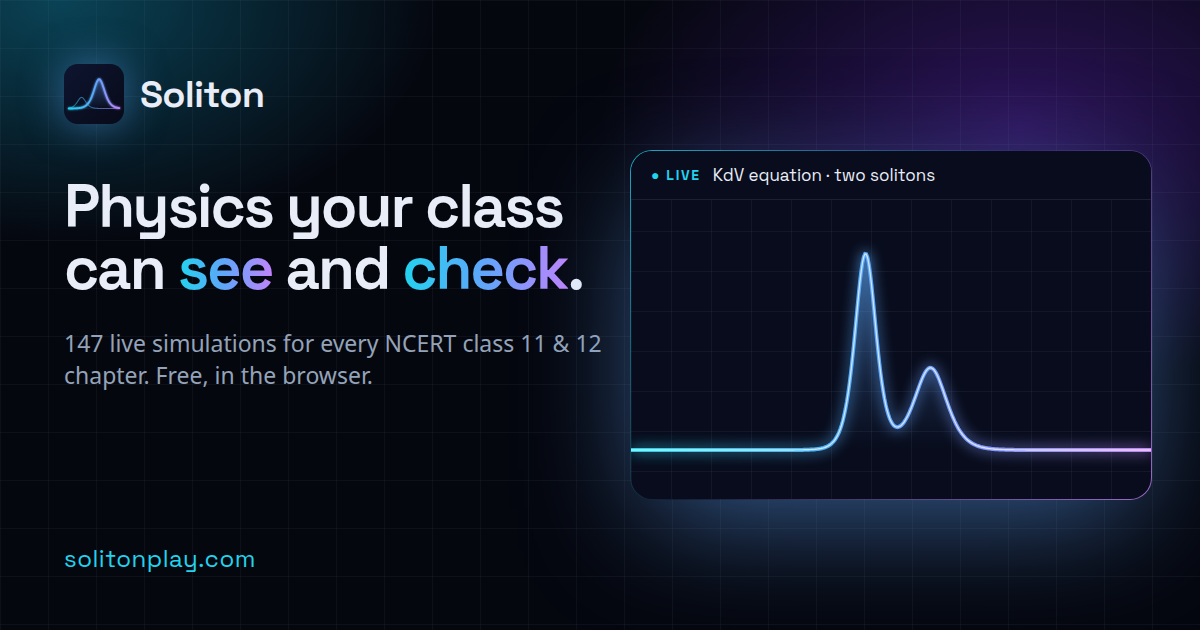
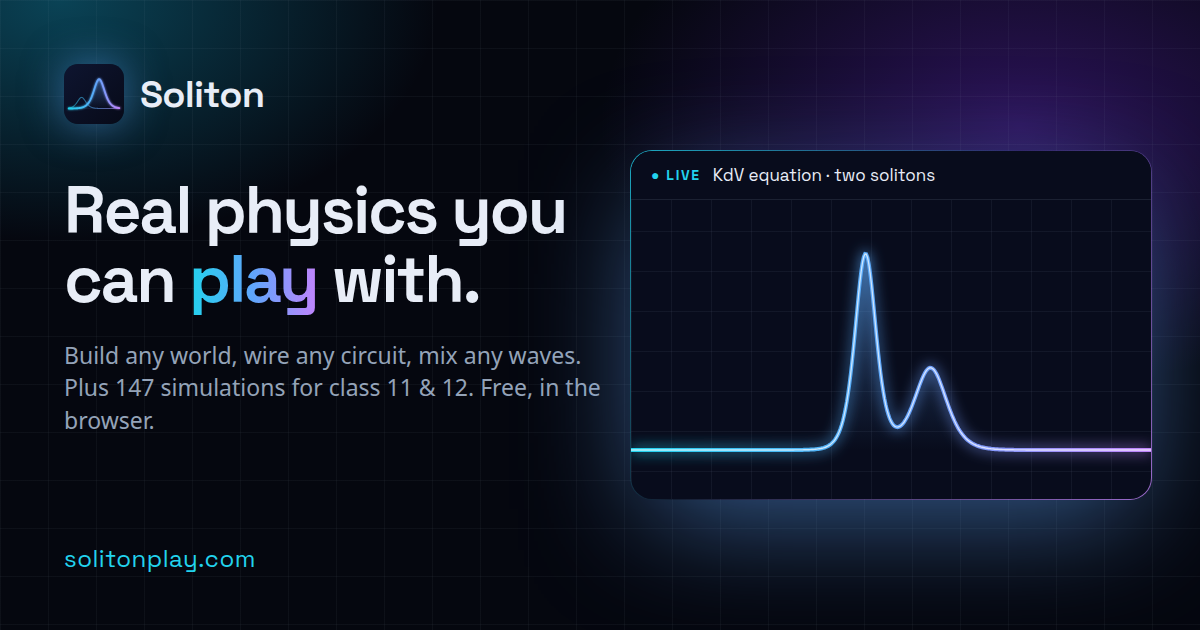
Landing: lead with play and building, not only the syllabus
The hero speaks to anyone curious: "Real physics you can play with", with Start building and Explore 147
simulations. A Build anything section shows the mechanics sandbox (with a picture of it), the circuit
builder, the wave lab and maths. Title, description, share image, structured data and FAQ follow.

Sandbox: the info card moves beside the tool rail and tool hints sit above the dock, so the three no longer
overlap on shorter screens.

Changed region(s): [[0.0308, 0.2714, 0.4933, 0.6333], [0.0617, 0.6635, 0.1233, 0.6937]]

diff --git a/index.html b/index.html
@@ -3,8 +3,8 @@
   <head>
     <meta charset="utf-8" />
     <meta name="viewport" content="width=device-width, initial-scale=1, viewport-fit=cover" />
-    <title>Soliton: Free Physics Simulations for Class 11 &amp; 12 (NCERT, JEE, NEET)</title>
-    <meta name="description" content="147 free, live physics simulations covering every NCERT class 11 and 12 chapter: motion, forces, energy, waves, thermodynamics, circuits, magnetism, optics and modern physics. Real forces and graphs, checked against the textbook answer. Made for the classroom projector." />
+    <title>Soliton: Free Physics Sandbox &amp; Simulations, from Class 11 to Curiosity</title>
+    <meta name="description" content="A free physics playground in your browser. Build any world from balls, ropes, springs and planets, wire your own circuits, mix waves, and watch a real physics engine compute every force. Plus 147 ready simulations covering every NCERT class 11 and 12 chapter." />
     <link rel="canonical" href="https://solitonplay.com/" />
     <meta name="robots" content="index, follow, max-image-preview:large" />
     <meta name="theme-color" content="#05070f" />
@@ -14,18 +14,18 @@
     <meta property="og:type" content="website" />
     <meta property="og:site_name" content="Soliton" />
     <meta property="og:url" content="https://solitonplay.com/" />
-    <meta property="og:title" content="Soliton: free physics simulations for class 11 &amp; 12" />
-    <meta property="og:description" content="Every NCERT physics chapter as a live simulation, checked against the textbook answer. Free, in the browser, made for the projector." />
+    <meta property="og:title" content="Soliton: real physics you can play with" />
+    <meta property="og:description" content="Build any world, wire any circuit, mix any waves, and watch a real physics engine at work. Free, in the browser, with every NCERT class 11 and 12 chapter ready to teach." />
     <meta property="og:image" content="https://solitonplay.com/og.png" />
     <meta property="og:image:width" content="1200" />
     <meta property="og:image:height" content="630" />
-    <meta property="og:image:alt" content="Soliton: physics your class can see and check. Two solitons on a live scope." />
+    <meta property="og:image:alt" content="Soliton: real physics you can play with. Two solitons on a live scope." />
     <meta property="og:locale" content="en_IN" />
     <meta name="twitter:card" content="summary_large_image" />
-    <meta name="twitter:title" content="Soliton: free physics simulations for class 11 &amp; 12" />
-    <meta name="twitter:description" content="Every NCERT physics chapter as a live simulation, checked against the textbook answer." />
+    <meta name="twitter:title" content="Soliton: real physics you can play with" />
+    <meta name="twitter:description" content="Build any world, wire any circuit, mix any waves, and watch a real physics engine at work. Free, in the browser." />
     <meta name="twitter:image" content="https://solitonplay.com/og.png" />
-    <script type="application/ld+json">{"@context": "https://schema.org", "@graph": [{"@type": "WebSite", "@id": "https://solitonplay.com/#website", "url": "https://solitonplay.com/", "name": "Soliton", "description": "Free live physics simulations for every NCERT class 11 and 12 chapter.", "inLanguage": "en-IN", "publisher": {"@id": "https://solitonplay.com/#org"}}, {"@type": "Organization", "@id": "https://solitonplay.com/#org", "name": "Soliton Physics", "url": "https://solitonplay.com/", "logo": "https://solitonplay.com/icon-512.png", "email": "developer.zang.000@gmail.com", "sameAs": ["https://github.com/soliton-physics", "https://www.npmjs.com/package/@soliton-physics/engine", "https://pypi.org/project/soliton-physics/"]}, {"@type": ["WebApplication", "LearningResource"], "name": "Soliton Physics Playground", "url": "https://solitonplay.com/play", "applicationCategory": "EducationalApplication", "operatingSystem": "Any (runs in the browser)", "offers": {"@type": "Offer", "price": "0", "priceCurrency": "INR"}, "isAccessibleForFree": true, "educationalLevel": ["Class 11", "Class 12"], "learningResourceType": "Simulation", "educationalAlignment": {"@type": "AlignmentObject", "alignmentType": "educationalSubject", "targetName": "NCERT Physics"}, "audience": {"@type": "EducationalAudience", "educationalRole": ["teacher", "student"]}, "teaches": ["Laws of motion", "Work, energy and power", "Rotational motion", "Gravitation", "Properties of matter", "Thermodynamics", "Kinetic theory", "Oscillations and waves", "Electrostatics", "Current electricity", "Magnetism", "Electromagnetic induction", "Alternating current", "Ray optics", "Wave optics", "Modern physics", "Semiconductor electronics"], "image": "https://solitonplay.com/og.png", "publisher": {"@id": "https://solitonplay.com/#org"}}, {"@type": "FAQPage", "mainEntity": [{"@type": "Question", "name": "Is Soliton free?", "acceptedAnswer": {"@type": "Answer", "text": "Yes. The playground and every simulation are free to use, for teachers, students and schools. Nothing to sign up for."}}, {"@type": "Question", "name": "Which syllabus does it cover?", "acceptedAnswer": {"@type": "Answer", "text": "Every chapter of NCERT physics for class 11 and class 12, from motion in a straight line to semiconductor electronics. It serves CBSE and state boards, and the same physics JEE and NEET ask about."}}, {"@type": "Question", "name": "Do students need to install anything?", "acceptedAnswer": {"@type": "Answer", "text": "No. It runs in any modern browser, on a laptop, a phone or a smartboard. Share a link and it opens exactly the scene you showed."}}, {"@type": "Question", "name": "Can I use it on a projector in class?", "acceptedAnswer": {"@type": "Answer", "text": "Yes. Press T for projector mode: text, arrows and lines grow bigger and bolder so the back row can read them."}}, {"@type": "Question", "name": "How is it different from an animation or a video?", "acceptedAnswer": {"@type": "Answer", "text": "Nothing is pre-recorded. A physics engine computes every force, path and graph as you watch, and the result is set beside the textbook's formula, so students can see the formula come true and change the numbers themselves."}}, {"@type": "Question", "name": "Can I put the simulations in my own website or app?", "acceptedAnswer": {"@type": "Answer", "text": "Yes. Any simulation can be embedded, and the engine itself is on npm as @soliton-physics/engine and on PyPI as soliton-physics, free to use including commercially."}}]}]}</script>
+    <script type="application/ld+json">{"@context": "https://schema.org", "@graph": [{"@type": "WebSite", "@id": "https://solitonplay.com/#website", "url": "https://solitonplay.com/", "name": "Soliton", "description": "A free physics playground: build your own worlds and circuits, and explore live simulations of every NCERT class 11 and 12 chapter.", "inLanguage": "en-IN", "publisher": {"@id": "https://solitonplay.com/#org"}}, {"@type": "Organization", "@id": "https://solitonplay.com/#org", "name": "Soliton Physics", "url": "https://solitonplay.com/", "logo": "https://solitonplay.com/icon-512.png", "email": "developer.zang.000@gmail.com", "sameAs": ["https://github.com/soliton-physics", "https://www.npmjs.com/package/@soliton-physics/engine", "https://pypi.org/project/soliton-physics/"]}, {"@type": ["WebApplication", "LearningResource"], "name": "Soliton Physics Playground", "url": "https://solitonplay.com/play", "applicationCategory": "EducationalApplication", "operatingSystem": "Any (runs in the browser)", "offers": {"@type": "Offer", "price": "0", "priceCurrency": "INR"}, "isAccessibleForFree": true, "educationalLevel": ["Class 11", "Class 12"], "learningResourceType": "Simulation", "educationalAlignment": {"@type": "AlignmentObject", "alignmentType": "educationalSubject", "targetName": "NCERT Physics"}, "audience": {"@type": "Audience", "audienceType": "Students, teachers, physics hobbyists and anyone curious"}, "teaches": ["Laws of motion", "Work, energy and power", "Rotational motion", "Gravitation", "Properties of matter", "Thermodynamics", "Kinetic theory", "Oscillations and waves", "Electrostatics", "Current electricity", "Magnetism", "Electromagnetic induction", "Alternating current", "Ray optics", "Wave optics", "Modern physics", "Semiconductor electronics"], "image": "https://solitonplay.com/og.png", "publisher": {"@id": "https://solitonplay.com/#org"}, "description": "A real physics engine in the browser: a sandbox to build worlds from balls, boxes, ropes, rods, springs and planets; a circuit builder; a wave lab; and 147 ready simulations across mechanics, waves, thermodynamics, electricity, magnetism, optics and modern physics."}, {"@type": "FAQPage", "mainEntity": [{"@type": "Question", "name": "Is Soliton free?", "acceptedAnswer": {"@type": "Answer", "text": "Yes. The playground, the sandbox and every simulation are free to use, for anyone: students, teachers, schools and the simply curious. Nothing to sign up for."}}, {"@type": "Question", "name": "Can I build my own simulations?", "acceptedAnswer": {"@type": "Answer", "text": "Yes. The sandbox lets you draw balls, boxes, any polygon, platforms, inclines and walls, join them with ropes, rods, springs and pins, or start from a sun and planets and throw in a comet. There is a circuit builder for batteries, resistors, capacitors, inductors and diodes, a wave lab for mixing waves, and a maths mode where you type any function. Everything you build can be shared as a link."}}, {"@type": "Question", "name": "Which syllabus does it cover?", "acceptedAnswer": {"@type": "Answer", "text": "Every chapter of NCERT physics for class 11 and class 12, from motion in a straight line to semiconductor electronics. It serves CBSE and state boards, and the same physics JEE and NEET ask about."}}, {"@type": "Question", "name": "Do students need to install anything?", "acceptedAnswer": {"@type": "Answer", "text": "No. It runs in any modern browser, on a laptop, a phone or a smartboard. Share a link and it opens exactly the scene you showed."}}, {"@type": "Question", "name": "Can I use it on a projector in class?", "acceptedAnswer": {"@type": "Answer", "text": "Yes. Press T for projector mode: text, arrows and lines grow bigger and bolder so the back row can read them."}}, {"@type": "Question", "name": "How is it different from an animation or a video?", "acceptedAnswer": {"@type": "Answer", "text": "Nothing is pre-recorded. A physics engine computes every force, path and graph as you watch, and the result is set beside the textbook's formula, so students can see the formula come true and change the numbers themselves."}}, {"@type": "Question", "name": "Can I put the simulations in my own website or app?", "acceptedAnswer": {"@type": "Answer", "text": "Yes. Any simulation can be embedded, and the engine itself is on npm as @soliton-physics/engine and on PyPI as soliton-physics, free to use including commercially."}}]}]}</script>
     <script>
       // Links made before the playground moved to /play carry its settings on the home address: send them on.
       if (location.pathname === '/' && (location.search || location.hash)) location.replace('/play' + location.search + location.hash);
@@ -38,7 +38,8 @@
       <div class="wrap nav-row">
         <a class="brand" href="/"><img src="/favicon.svg" alt="" width="32" height="32" /><span>Soliton</span></a>
         <nav class="nav-links">
-          <a href="#features">Why Soliton</a>
+          <a href="#build">Build</a>
+          <a href="#teachers-why">For teachers</a>
           <a href="#syllabus">Syllabus</a>
           <a href="#developers">Developers</a>
           <a href="https://docs.solitonplay.com">Docs</a>
@@ -50,15 +51,16 @@
     <section class="hero">
       <div class="wrap hero-grid">
         <div class="hero-text">
-          <p class="pill"><span class="dot"></span>Free physics simulations · NCERT class 11 &amp; 12</p>
-          <h1>Physics your class can <span class="gradient">see</span> and <span class="gradient">check</span>.</h1>
+          <p class="pill"><span class="dot"></span>A free physics playground, in your browser</p>
+          <h1>Real physics you can <span class="gradient">play</span> with.</h1>
           <p class="lead">
-            Every chapter of class 11 and 12 physics as a live simulation, for boards, JEE and NEET. Forces, graphs
-            and energy are computed as you watch, and set right beside the textbook's answer.
+            Build a machine from ropes and pulleys, launch a comet round a sun, wire a circuit, mix waves. A real
+            physics engine works out every force, path and joule as you watch. For the curious, for students, and for
+            every class 11 and 12 classroom.
           </p>
           <div class="actions">
-            <a class="button" href="/play">Open the playground <span class="arrow">→</span></a>
-            <a class="button ghost" href="#teachers">Use it in your class</a>
+            <a class="button" href="/play?mode=mechanics&amp;sandbox">Start building <span class="arrow">→</span></a>
+            <a class="button ghost" href="/play">Explore 147 simulations</a>
           </div>
         </div>
 
@@ -80,7 +82,7 @@
 
       <div class="wrap stats">
         <div><b>147</b><span>live simulations</span></div>
-        <div><b>27</b><span>NCERT chapters</span></div>
+        <div><b>9</b><span>areas of physics</span></div>
         <div><b data-count="downloads">4,192</b><span>package downloads</span></div>
         <div><b>100%</b><span>free to use</span></div>
       </div>
@@ -108,11 +110,50 @@
       </div>
     </section>
 
-    <section class="features" id="features">
+    <section class="build" id="build">
       <div class="wrap">
         <div class="section-head">
-          <p class="eyebrow">Why teachers use it</p>
+          <p class="eyebrow">Build anything</p>
+          <h2>Not just simulations. A world to build in.</h2>
+          <p class="section-lead">Draw it, join it, let it go. If physics allows it, you can build it, and the engine will show you exactly what happens and why.</p>
+        </div>
+        <div class="builders">
+          <a class="builder big" href="/play?mode=mechanics&amp;sandbox">
+            <span class="icon"><svg viewBox="0 0 24 24"><circle cx="7" cy="7" r="3" /><rect x="13" y="13" width="7" height="7" rx="1" /><path d="M9.5 9.5 13 13M3 21h18" /></svg></span>
+            <h3>Mechanics sandbox</h3>
+            <p>Balls, boxes and shapes of any outline. Platforms, inclines and walls. Join them with ropes over pulleys, rods, springs and pins, give them friction and bounce, then press play. Or start from a sun and planets, change G and throw a comet in.</p>
+            <img class="builder-shot" src="/sandbox.webp" width="1200" height="760" loading="lazy" alt="The mechanics sandbox: a block on a table pulled by a hanging mass over a pulley, with its free-body diagram and the tool rail." />
+            <ul class="tags"><li>ropes &amp; pulleys</li><li>springs</li><li>collisions</li><li>orbits</li><li>free-body diagrams</li><li>energy ledger</li></ul>
+            <span class="go">Open the sandbox →</span>
+          </a>
+          <a class="builder" href="/play?mode=circuits&amp;sandbox">
+            <span class="icon"><svg viewBox="0 0 24 24"><path d="M3 12h4l2-4 3 8 2-4h7" /><circle cx="3" cy="12" r="1" /><circle cx="21" cy="12" r="1" /></svg></span>
+            <h3>Circuit builder</h3>
+            <p>Batteries, resistors, capacitors, inductors, diodes and AC sources. Wire them any way you like and watch the current flow, solved from Kirchhoff's laws.</p>
+            <span class="go">Wire a circuit →</span>
+          </a>
+          <a class="builder" href="/play?mode=waves&amp;preset=wave-lab">
+            <span class="icon"><svg viewBox="0 0 24 24"><path d="M2 12c2-5 4-5 6 0s4 5 6 0 4-5 6 0" /><path d="M2 12c3-3 6-3 10 0s7 3 10 0" opacity=".5" /></svg></span>
+            <h3>Wave lab</h3>
+            <p>Add sine waves and pulses of your own, send them either way, and watch them add up into beats, standing waves and more.</p>
+            <span class="go">Mix waves →</span>
+          </a>
+          <a class="builder" href="/play?mode=maths">
+            <span class="icon"><svg viewBox="0 0 24 24"><path d="M4 20V4M4 20h16" /><path d="M6 16c3-9 6-9 8-3s4 3 6-5" /></svg></span>
+            <h3>Maths</h3>
+            <p>Type any function. See its graph, its derivative, the area under it and its integral, worked out step by step.</p>
+            <span class="go">Plot a function →</span>
+          </a>
+        </div>
+      </div>
+    </section>
+
+    <section class="features" id="teachers-why">
+      <div class="wrap">
+        <div class="section-head">
+          <p class="eyebrow">In the classroom</p>
           <h2>Made for the way physics is taught</h2>
+          <p class="section-lead">Every chapter of NCERT class 11 and 12, for boards, JEE and NEET, with the textbook's answer set beside the engine's.</p>
         </div>
         <div class="cards">
           <article class="card">
@@ -222,12 +263,16 @@
       <div class="wrap">
         <div class="section-head">
           <p class="eyebrow">Questions</p>
-          <h2>Asked by teachers</h2>
+          <h2>Questions, answered</h2>
         </div>
         <div class="faq-list">
           <details>
             <summary>Is Soliton free?</summary>
-            <p>Yes. The playground and every simulation are free to use, for teachers, students and schools. Nothing to sign up for.</p>
+            <p>Yes. The playground, the sandbox and every simulation are free to use, for anyone: students, teachers, schools and the simply curious. Nothing to sign up for.</p>
+          </details>
+          <details>
+            <summary>Can I build my own simulations?</summary>
+            <p>Yes. The sandbox lets you draw balls, boxes, any polygon, platforms, inclines and walls, join them with ropes, rods, springs and pins, or start from a sun and planets and throw in a comet. There is a circuit builder for batteries, resistors, capacitors, inductors and diodes, a wave lab for mixing waves, and a maths mode where you type any function. Everything you build can be shared as a link.</p>
           </details>
           <details>
             <summary>Which syllabus does it cover?</summary>

diff --git a/src/landing/landing.css b/src/landing/landing.css
@@ -1050,3 +1050,127 @@ kbd {
   padding: 0 1.4rem 1.3rem;
   color: var(--muted);
 }
+
+/* Build anything */
+.builders {
+  display: grid;
+  grid-template-columns: 1.25fr 1fr;
+  grid-auto-rows: auto;
+  gap: 1.2rem;
+}
+
+.builder {
+  position: relative;
+  display: flex;
+  flex-direction: column;
+  padding: 1.7rem;
+  border-radius: 20px;
+  background: var(--panel);
+  border: 1px solid var(--line);
+  text-decoration: none;
+  overflow: hidden;
+  transition: transform 0.25s ease, border-color 0.25s ease, box-shadow 0.25s ease;
+}
+
+.builder::before {
+  content: '';
+  position: absolute;
+  inset: 0;
+  background: radial-gradient(420px circle at var(--x, 80%) var(--y, 0%), rgba(96, 165, 250, 0.14), transparent 50%);
+  opacity: 0;
+  transition: opacity 0.3s ease;
+  pointer-events: none;
+}
+
+.builder:hover {
+  transform: translateY(-4px);
+  border-color: rgba(96, 165, 250, 0.5);
+  box-shadow: 0 30px 80px -40px rgba(96, 165, 250, 0.6);
+}
+
+.builder:hover::before {
+  opacity: 1;
+}
+
+.builder.big {
+  grid-row: span 3;
+  padding: 2.4rem;
+  background:
+    radial-gradient(70% 60% at 100% 0%, rgba(192, 132, 252, 0.16), transparent 70%),
+    radial-gradient(60% 60% at 0% 100%, rgba(34, 211, 238, 0.14), transparent 70%),
+    var(--panel);
+  border-color: var(--line-strong);
+}
+
+.builder h3 {
+  font-size: 1.3rem;
+  margin-bottom: 0.5rem;
+}
+
+.builder.big h3 {
+  font-size: clamp(1.7rem, 2.6vw, 2.2rem);
+  margin: 0.4rem 0 0.9rem;
+}
+
+.builder p {
+  margin: 0;
+  color: var(--muted);
+}
+
+.builder.big p {
+  font-size: 1.08rem;
+}
+
+.builder .icon {
+  margin-bottom: 1.1rem;
+}
+
+.tags {
+  display: flex;
+  flex-wrap: wrap;
+  gap: 0.5rem;
+  margin: 1.6rem 0 0;
+  padding: 0;
+  list-style: none;
+}
+
+.tags li {
+  padding: 0.25rem 0.75rem;
+  border-radius: 999px;
+  font-size: 0.85rem;
+  color: #e9d5ff;
+  background: rgba(192, 132, 252, 0.1);
+  box-shadow: 0 0 0 1px rgba(192, 132, 252, 0.3) inset;
+}
+
+.go {
+  margin-top: auto;
+  padding-top: 1.3rem;
+  font-family: var(--display);
+  font-weight: 600;
+  color: var(--cyan);
+}
+
+.builder:hover .go {
+  text-decoration: underline;
+}
+
+@media (max-width: 860px) {
+  .builders {
+    grid-template-columns: 1fr;
+  }
+
+  .builder.big {
+    grid-row: auto;
+  }
+}
+
+.builder-shot {
+  display: block;
+  width: 100%;
+  height: auto;
+  margin-top: 1.6rem;
+  border-radius: 14px;
+  border: 1px solid var(--line-strong);
+  box-shadow: 0 24px 60px -30px rgba(0, 0, 0, 0.9);
+}

diff --git a/src/landing/landing.ts b/src/landing/landing.ts
@@ -141,7 +141,7 @@ const canvas = document.querySelector<HTMLCanvasElement>('.scope-wave');
 if (canvas) scope(canvas);
 
 // The feature cards light up where the pointer is.
-for (const card of document.querySelectorAll<HTMLElement>('.card')) {
+for (const card of document.querySelectorAll<HTMLElement>('.card, .builder')) {
   card.addEventListener('pointermove', (e) => {
     const box = card.getBoundingClientRect();
     card.style.setProperty('--x', `${e.clientX - box.left}px`);
@@ -150,7 +150,7 @@ for (const card of document.querySelectorAll<HTMLElement>('.card')) {
 }
 
 // Sections rise into view as they are reached.
-const rising = document.querySelectorAll<HTMLElement>('.section-head, .screen, .card, .class, .package, .faq details, .teachers-box, .stats');
+const rising = document.querySelectorAll<HTMLElement>('.section-head, .screen, .card, .builder, .class, .package, .faq details, .teachers-box, .stats');
 const watcher = new IntersectionObserver(
   (entries) => {
     for (const entry of entries) {

diff --git a/src/styles/app.css b/src/styles/app.css
@@ -1482,6 +1482,30 @@ body.embed .banner {
   left: 8.286rem;
 }
 
+/* In the mechanics sandbox: the info card clear of the tool rail, and the tool hints above the playback dock. */
+.info.beside-rail {
+  left: 4.857rem;
+  width: min(22.857rem, calc(100% - 5.714rem));
+}
+
+.hint.hint-low {
+  top: auto;
+  bottom: 9.4rem;
+  left: 4.857rem;
+  right: 23rem;
+  width: fit-content;
+  margin-inline: auto;
+  transform: none;
+  white-space: normal;
+  text-align: center;
+}
+
+@media (max-width: 900px) {
+  .hint.hint-low {
+    right: 0.857rem;
+  }
+}
+
 /* A rail with more tools than one column has room for. */
 .rail.two {
   display: grid;

diff --git a/src/mechanics/app.ts b/src/mechanics/app.ts
@@ -237,6 +237,9 @@ export async function mountMechanics(main: HTMLElement, query: URLSearchParams, 
     // A remixed scene is no longer the textbook's problem, so its answers no longer apply.
     answers.root.hidden = sandbox;
     notes.classList.toggle('beside-rail', sandbox);
+    // The tool rail runs up the left in a sandbox: the card moves beside it and the tool hints sit low, clear of both.
+    info.classList.toggle('beside-rail', sandbox);
+    hint.classList.toggle('hint-low', sandbox);
     properties.hidden = true;
     propertiesKey = '';
     hint.hidden = true;
